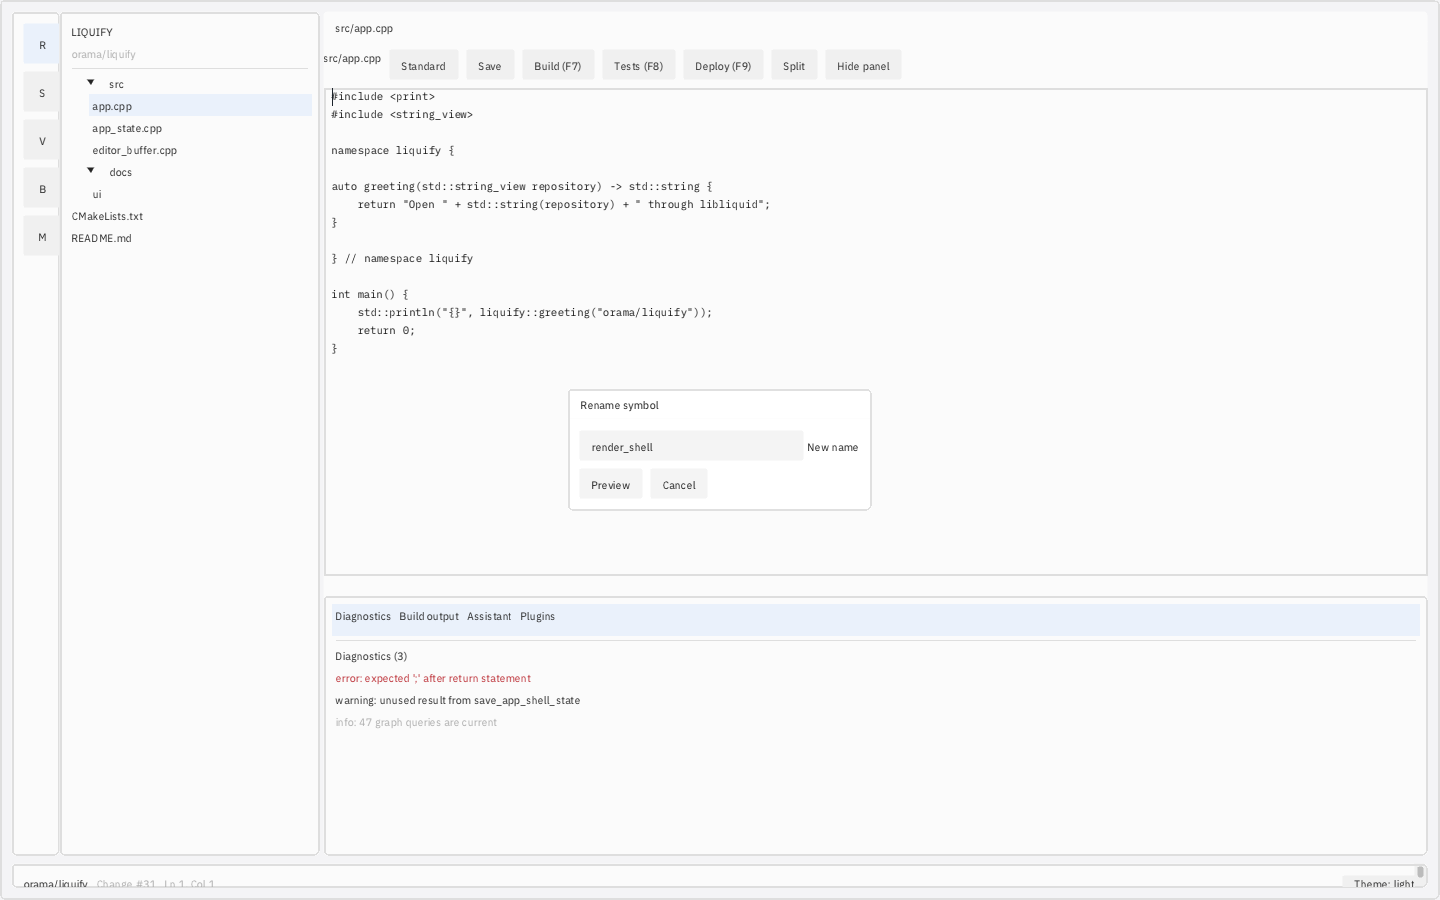
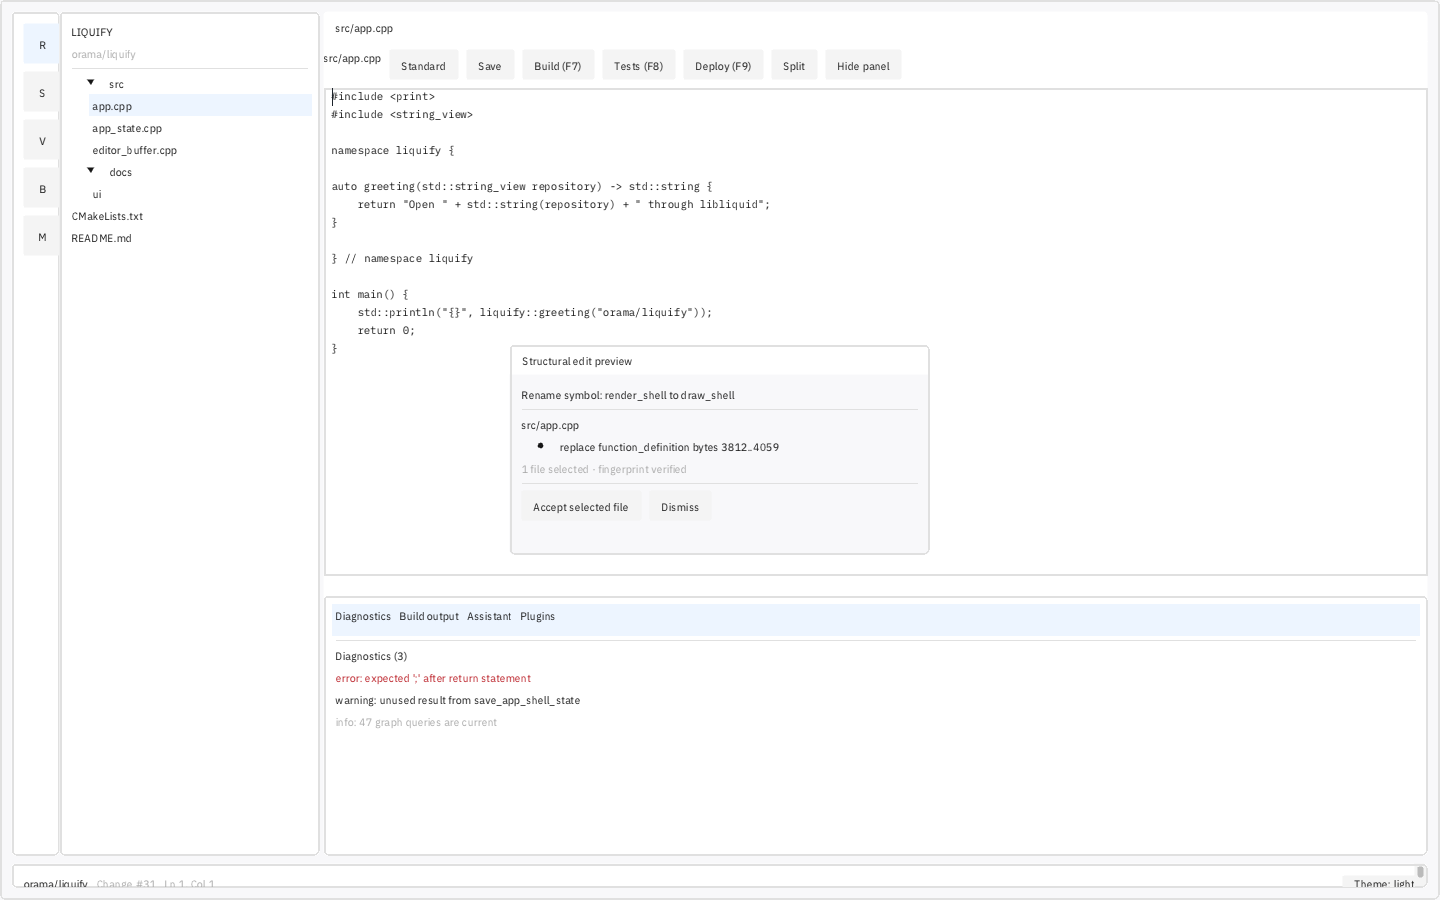
Stabilize structural shell screenshots

Changed region(s): [[0.3438, 0.4356, 0.5, 0.5911], [0.3438, 0.3733, 0.4375, 0.4044]]

diff --git a/src/app.cpp b/src/app.cpp
@@ -691,10 +691,6 @@ App::App(AppOptions options) : options_(std::move(options)) {
         } else {
             shell_state_.bottom_panel = BottomPanelTab::diagnostics;
         }
-        if (state == "structural") {
-            rename_open_ = true;
-            structural_name_ = "render_shell";
-        }
     }
 }
 
@@ -2168,6 +2164,27 @@ void App::draw_command_palette() {
 }
 
 void App::draw_structural_editing() {
+    if (screenshot_mode() && *options_.screenshot_state == "structural") {
+        const auto center = ImGui::GetMainViewport()->GetCenter();
+        ImGui::SetNextWindowPos(center, ImGuiCond_Always, ImVec2(0.5F, 0.5F));
+        ImGui::SetNextWindowSize(ImVec2(420.0F, 210.0F), ImGuiCond_Always);
+        if (ImGui::Begin("Structural edit preview",
+                         nullptr,
+                         ImGuiWindowFlags_NoCollapse | ImGuiWindowFlags_NoResize |
+                             ImGuiWindowFlags_NoSavedSettings)) {
+            ImGui::TextUnformatted("Rename symbol: render_shell to draw_shell");
+            ImGui::Separator();
+            ImGui::TextUnformatted("src/app.cpp");
+            ImGui::BulletText("replace function_definition bytes 3812..4059");
+            ImGui::TextDisabled("1 file selected · fingerprint verified");
+            ImGui::Separator();
+            ImGui::Button("Accept selected file");
+            ImGui::SameLine();
+            ImGui::Button("Dismiss");
+        }
+        ImGui::End();
+        return;
+    }
     if (rename_open_) {
         ImGui::OpenPopup("Rename symbol");
         rename_open_ = false;

diff --git a/docs/ui/app-shell.md b/docs/ui/app-shell.md
@@ -52,6 +52,8 @@ Issue #38's general screenshot leaf has not landed, so this change supplies the 
 needed to review the shell. `--screenshot` selects one of nine seeded shell states, SDL's dummy
 video driver and software renderer produce a hidden fixed 1440×900 frame, and the in-tree PNG
 writer captures RGBA output. No display, repository, network, or container is involved.
+The structural capture uses a fixed edit-preview model, avoiding frame-timed caret state while the
+live rename and extract-function modals keep their normal input behavior.
 
 ```sh
 ./build/liquify --screenshot editor --theme dark --out editor-dark.png
